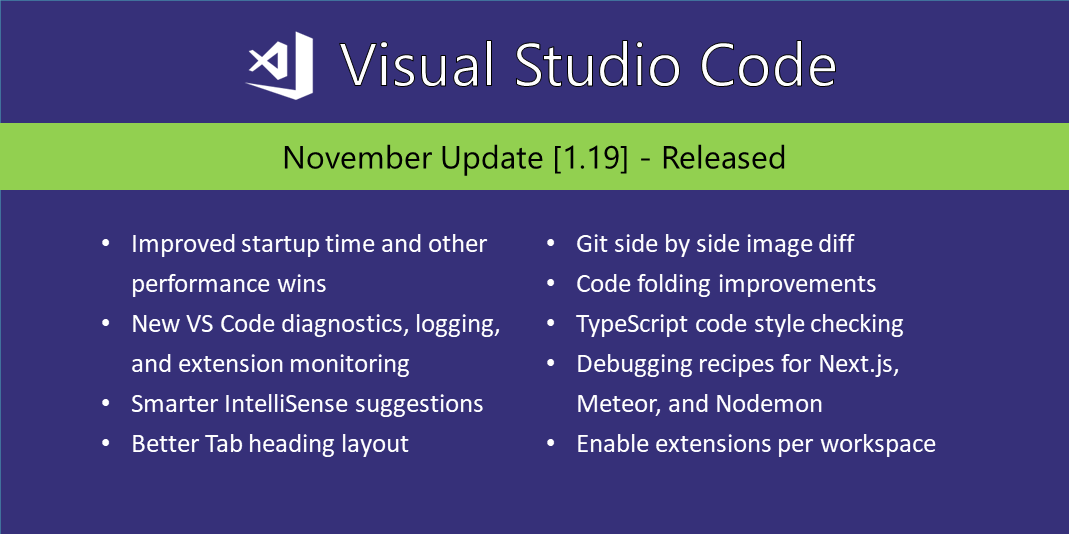
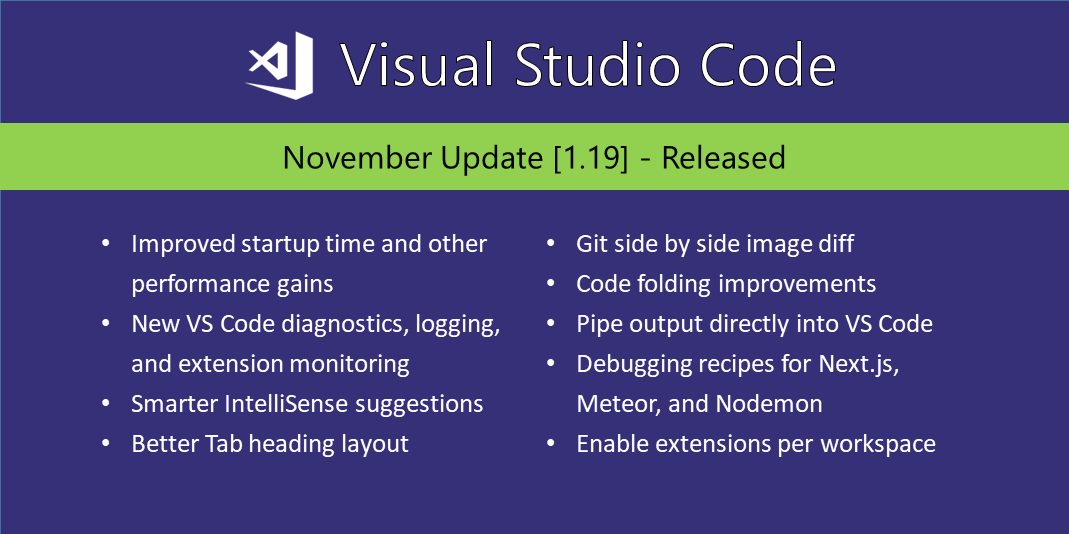
Add pipe output feature to 1.19 highlights

Changed region(s): [[0.5248, 0.5693, 0.8952, 0.6292], [0.247, 0.5094, 0.3087, 0.5693]]

diff --git a/release-notes/v1_19.md b/release-notes/v1_19.md
@@ -18,14 +18,14 @@ Bug fixes as well as community PRs still resulted in a great list of updates. He
 * **[Smarter IntelliSense](#smarter-intellisense)** - IntelliSense remembers your previous suggestion choices.
 * **[Better Tab layout](#new-editor-tabs-layout-option)** - Tabbed headers can scale to fit the available space.
 * **[Git side-by-side image diff](#image-diffing)** - Git source control provider can display image changes side by side.
-* **[TypeScript code style checking](#typescript-reportstylechecksaswarnings)** - See warnings for unused or unreachable source code.
+* **[Pipe output into VS Code](#pipe-output-directly-into-vs-code)** - Easily view terminal output in a VS Code editor.
 * **[New debugging recipes](#debugging-recipes)** - Learn how to debug Next.js, Meteor projects and applications using the Nodemon utility.
 
 >If you'd like to read these release notes online, go to [Updates](https://code.visualstudio.com/updates) on [code.visualstudio.com](https://code.visualstudio.com).<br>
 
 The release notes are arranged in the following sections related to VS Code focus areas. Here are some further updates:
 
-* **[Workbench](#workbench)** - Pipe output to VS Code, compare open file to Clipboard.
+* **[Workbench](#workbench)** - Compare your active file to the Clipboard contents.
 * **[Editor](#editor)** - Folding improvements, interval line numbers, support macOS global Clipboard.
 * **[Languages](#languages)** - TypeScript 2.6.2, JSX fragment syntax, new JSON with comments mode.
 * **[Debugging](#debugging)** - Undefine env variables per session, better VARIABLES rendering, edit break point command.
